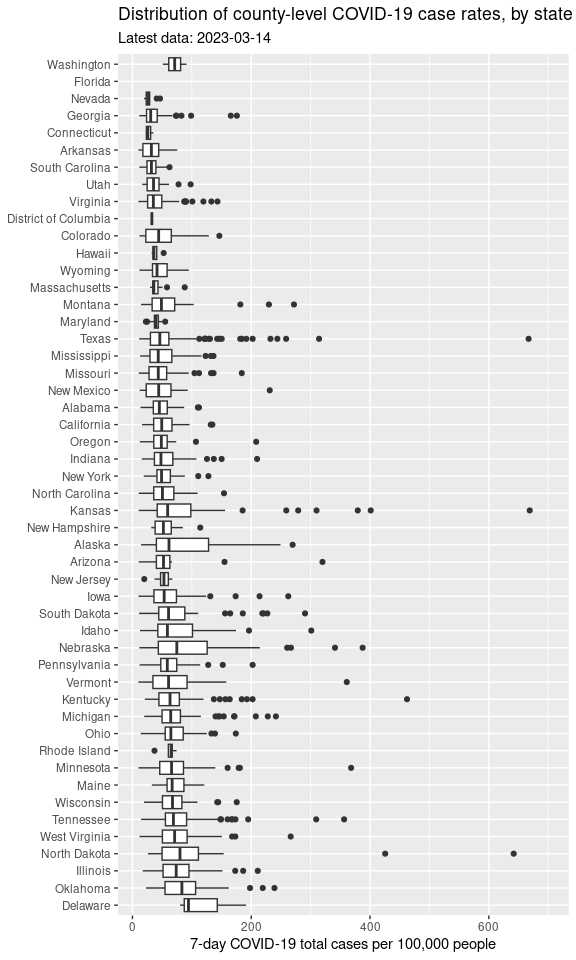
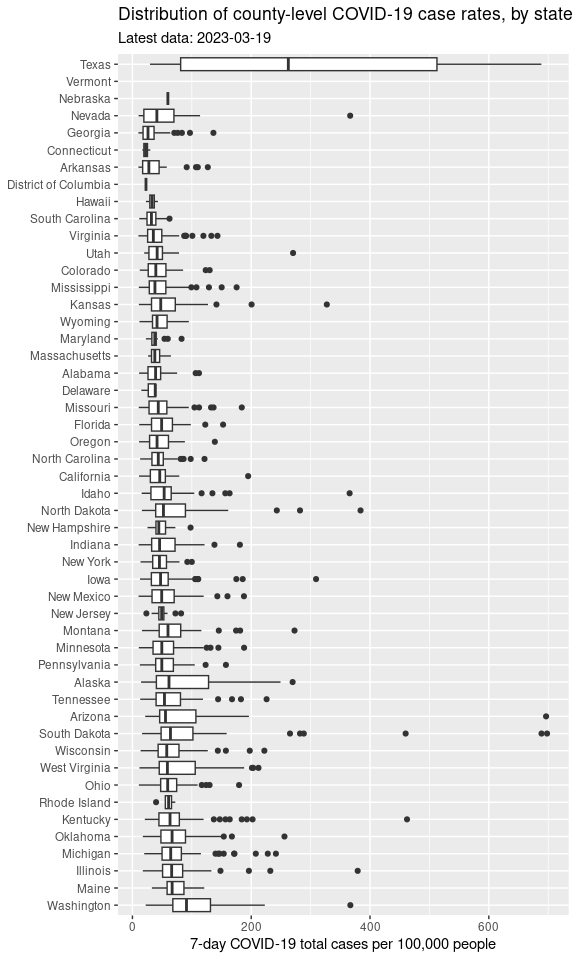
Updated report

diff --git a/README.md b/README.md
@@ -1,7 +1,7 @@
 Minnesota COVID Reports
 ================
 
-Report last run: 2023-03-15 05:41:09
+Report last run: 2023-03-20 05:40:20
 
 ## Introduction
 
@@ -105,25 +105,25 @@ rate_data %>%
   knitr::kable()
 ```
 
-| county      | state        |   pop | covid_rate |
-|:------------|:-------------|------:|-----------:|
-| Garfield    | Nebraska     |  1969 |       1219 |
-| Mineral     | Colorado     |   769 |       1170 |
-| Hodgeman    | Kansas       |  1794 |        669 |
-| Lamb        | Texas        | 12893 |        667 |
-| Rolette     | North Dakota | 14176 |        642 |
-| Menifee     | Kentucky     |  6489 |        462 |
-| Sioux       | North Dakota |  4230 |        426 |
-| Clark       | Kansas       |  1994 |        401 |
-| Thurston    | Nebraska     |  7224 |        388 |
-| Gove        | Kansas       |  2636 |        379 |
-| Traverse    | Minnesota    |  3259 |        368 |
-| Bennington  | Vermont      | 35470 |        361 |
-| Campbell    | Tennessee    | 39842 |        356 |
-| Nance       | Nebraska     |  3519 |        341 |
-| Apache      | Arizona      | 71887 |        320 |
-| Hemphill    | Texas        |  3819 |        314 |
-| Stevens     | Kansas       |  5485 |        310 |
-| Benton      | Tennessee    | 16160 |        309 |
-| Benewah     | Idaho        |  9298 |        301 |
-| Charles Mix | South Dakota |  9292 |        291 |
+| county       | state |     pop | covid_rate |
+|:-------------|:------|--------:|-----------:|
+| Delta        | Texas |    5331 |     147102 |
+| Frio         | Texas |   20306 |       6259 |
+| Denton       | Texas |  887207 |       4896 |
+| Loving       | Texas |     169 |       4142 |
+| Jones        | Texas |   20083 |       3934 |
+| Hudspeth     | Texas |    4886 |       3909 |
+| Crockett     | Texas |    3464 |       3695 |
+| Jasper       | Texas |   35529 |       3090 |
+| San Patricio | Texas |   66730 |       3069 |
+| Walker       | Texas |   72971 |       2894 |
+| Schleicher   | Texas |    2793 |       2542 |
+| Goliad       | Texas |    7658 |       2468 |
+| Crane        | Texas |    4797 |       2376 |
+| Comal        | Texas |  156209 |       2144 |
+| Deaf Smith   | Texas |   18546 |       2092 |
+| Victoria     | Texas |   92084 |       2045 |
+| Maverick     | Texas |   58722 |       2020 |
+| Childress    | Texas |    7306 |       1848 |
+| Terrell      | Texas |     776 |       1804 |
+| Travis       | Texas | 1273954 |       1789 |
